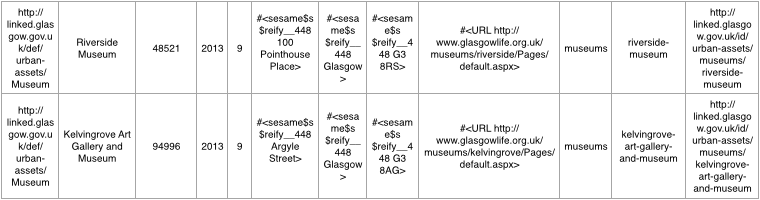
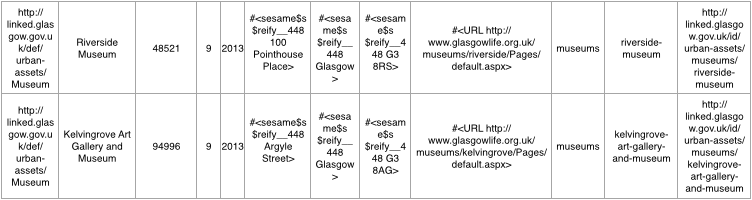
reorder the pipeline so swap 3 4 and fuse date-time are at the same moment -> updated each screenshot

diff --git a/_howto/921_pipeline.md b/_howto/921_pipeline.md
@@ -6,17 +6,10 @@ title: The Pipeline function
 # Pipeline
 
 ## Principle
-As its name indicates, the pipeline function, aims to link the data we are working on and the graph we want. Basically, pipeline modifies, for each row of the CSV file we are working on, the columns, so we can access or add the exact data we need. 
+As its name indicates, the pipeline function, aims to link the data we are working on and the graph we want. Basically, pipeline modifies, for each row of the CSV file we are working on, the columns, so we can access or add the exact data we need.
 
 Behind this there is the Grafter philosophy of transformations and preservation of source data.(FIXME: link_to Transformations and the art of preserving source data)
 
-### Clojure 
-
-#### -> macro
-[The "thread-first" macro](http://clojuredocs.org/clojure_core/clojure.core/-%3E) is often used in clojure and makes code more readable.
-
-#### let
-[The "let" special form](http://clojuredocs.org/clojure_core/clojure.core/let) makes the binding, and therefore the ability to resolve the binding, available only within the lexical context of the let (still the idea of transformations and preservation of source data).
 
 ### Data
 For each row the process will be the same so I will just show the two first lines:
@@ -31,11 +24,9 @@ The pipeline function is going to require some Grafter functions:
 - parse-csv: simply uses the [Clojure.java.io API reader function](http://clojure.github.io/clojure/clojure.java.io-api.html) to parse our csv file
 - drop-rows: drops the first n rows from the CSV
 - swap: swaps two columns
-- derive-column: adds a new column to the end of the row which is derived from
-already existing columns
-- mapc: takes an array of functions and maps each to the equivalent column
-position for every row
-- fuse: merges columns 
+- derive-column: adds a new column to the end of the row which is derived from already existing columns
+- mapc: takes an array of functions and maps each to the equivalent column position for every row
+- fuse: merges columns
 - _: identity
 - date-time: uses the [clj-time](https://github.com/clj-time/clj-time)'s date-time
 
@@ -55,41 +46,22 @@ And also every prefixies we have defined [at the last step](911_prefixies.html)
 First step is to parse the csv and drop the header:
 
 {% highlight clojure %}
-(defn pipeline [path-csv] 
+(defn pipeline [path-csv]
  (-> (parse-csv path-csv)
-     (drop-rows 1)))     
+     (drop-rows 1)))
 {% endhighlight %}
 
 ![Drop header Screenshot](/assets/921_pipeline_2.png)
-
-
-### Date
-
-Then we want to prepare the date, thus we would like to swap the month and the year:
-
-{% highlight clojure %}
-(defn pipeline [path-csv] 
- (-> (parse-csv path-csv)
-     (drop-rows 1)
-     (swap {3 4})))     
-{% endhighlight %}
-
-![Swap Screenshot](/assets/921_pipeline_3.png)
-
-and get
-
-![Swap Screenshot](/assets/921_pipeline_4.png)
 
 ### Type
 
 Next we would like to get the type: in this case we want to have: "museums". Instead of modifying source data we will just add a new column with the modified data. Basically we take the column 0 data, apply the function uriify-type, and add the result to a new column:
 
 {% highlight clojure %}
-(defn pipeline [path-csv] 
+(defn pipeline [path-csv]
  (-> (parse-csv path-csv)
      (drop-rows 1)
-     (swap {3 4})
-     (derive-column uriify-type 0)))     
+     (derive-column uriify-type 0)))
 {% endhighlight %}
 
 ![Swap Screenshot](/assets/921_pipeline_5.png)
@@ -105,15 +77,14 @@ cmd-line.prefixers=> (uriify-type "Museums")
 
 ### Name
 
-We are going to need to have the name in an nice format to make URI. Same way to do: 
+We are going to need to have the name in an nice format to make URI. Same way to do:
 
 {% highlight clojure %}
-(defn pipeline [path-csv] 
+(defn pipeline [path-csv]
  (-> (parse-csv path-csv)
      (drop-rows 1)
-     (swap {3 4})
      (derive-column uriify-type 0)
-     (derive-column slugify-facility 1)))     
+     (derive-column slugify-facility 1)))
 {% endhighlight %}
 
 ![Swap Screenshot](/assets/921_pipeline_7.png)
@@ -130,13 +101,12 @@ cmd-line.prefixers=> (slugify-facility "Riverside Museum")
 This one is a bit different: we will use mapc to apply a different function to each column:
 
 {% highlight clojure %}
-(defn pipeline [path-csv] 
+(defn pipeline [path-csv]
  (-> (parse-csv path-csv)
      (drop-rows 1)
-     (swap {3 4})
      (derive-column uriify-type 0)
      (derive-column slugify-facility 1)
-     (mapc [uriify-facility trim parse-attendance parse-year convert-month address-line city post-code url _ _])))     
+     (mapc [uriify-facility trim parse-attendance parse-year convert-month address-line city post-code url _ _])))
 {% endhighlight %}
 
 ![Swap Screenshot](/assets/921_pipeline_9.png)
@@ -171,14 +141,13 @@ We have changed a lot of things, but each transformation is easy to understand a
 ### Facilities uri
 
 {% highlight clojure %}
-(defn pipeline [path-csv] 
+(defn pipeline [path-csv]
  (-> (parse-csv path-csv)
      (drop-rows 1)
-     (swap {3 4})
      (derive-column uriify-type 0)
      (derive-column slugify-facility 1)
      (mapc [uriify-facility trim parse-attendance parse-year convert-month address-line city post-code url _ _])
-     (derive-column uriify-refFacility 9 10)))     
+     (derive-column uriify-refFacility 9 10)))
 {% endhighlight %}
 
 ![Swap Screenshot](/assets/921_pipeline_11.png)
@@ -193,15 +162,14 @@ cmd-line.prefixers=> (uriify-refFacility "museums" "riverside-museum")
 ### Postcode
 
 {% highlight clojure %}
-(defn pipeline [path-csv] 
+(defn pipeline [path-csv]
  (-> (parse-csv path-csv)
      (drop-rows 1)
-     (swap {3 4})
      (derive-column uriify-type 0)
      (derive-column slugify-facility 1)
      (mapc [uriify-facility trim parse-attendance parse-year convert-month address-line city post-code url _ _])
      (derive-column uriify-refFacility 9 10)
-     (derive-column uriify-pcode 7)))     
+     (derive-column uriify-pcode 7)))
 {% endhighlight %}
 
 ![Swap Screenshot](/assets/921_pipeline_13.png)
@@ -211,19 +179,38 @@ cmd-line.prefixers=> (uriify-refFacility "museums" "riverside-museum")
 
 ### Date time
 
-We are now going to create a nice date-time. date-time takes two arguments here, on column 3 and 4, fuse take the result of the function and put it in the first column concerned (here 3):
+We are now going to create a nice date-time.
+First the idea is to swap column 3 and column 4: by doing this we will have the year before the month. This is functionnal programming: order counts!
 
 {% highlight clojure %}
-(defn pipeline [path-csv] 
+(defn pipeline [path-csv]
  (-> (parse-csv path-csv)
      (drop-rows 1)
-     (swap {3 4})
      (derive-column uriify-type 0)
      (derive-column slugify-facility 1)
      (mapc [uriify-facility trim parse-attendance parse-year convert-month address-line city post-code url _ _])
      (derive-column uriify-refFacility 9 10)
      (derive-column uriify-pcode 7)
-     (fuse date-time 3 4)))     
+     (swap {3 4})))
+{% endhighlight %}
+
+![Swap Screenshot](/assets/921_pipeline_141.png)
+
+![Swap Screenshot](/assets/921_pipeline_142.png)
+
+Then we can apply date-time, the function takes two arguments, on column 3 and 4, fuse take the result of the function and put it in the first column concerned (here 3) and delete the second one:
+
+{% highlight clojure %}
+(defn pipeline [path-csv]
+ (-> (parse-csv path-csv)
+     (drop-rows 1)
+     (derive-column uriify-type 0)
+     (derive-column slugify-facility 1)
+     (mapc [uriify-facility trim parse-attendance parse-year convert-month address-line city post-code url _ _])
+     (derive-column uriify-refFacility 9 10)
+     (derive-column uriify-pcode 7)
+     (swap {3 4})
+     (fuse date-time 3 4)))
 {% endhighlight %}
 
 ![Swap Screenshot](/assets/921_pipeline_15.png)
@@ -240,17 +227,17 @@ Nothing really new from now, but still interesting!
 ### Monthly attendance
 
 {% highlight clojure %}
-(defn pipeline [path-csv] 
+(defn pipeline [path-csv]
  (-> (parse-csv path-csv)
      (drop-rows 1)
-     (swap {3 4})
      (derive-column uriify-type 0)
      (derive-column slugify-facility 1)
      (mapc [uriify-facility trim parse-attendance parse-year convert-month address-line city post-code url _ _])
      (derive-column uriify-refFacility 9 10)
      (derive-column uriify-pcode 7)
+     (swap {3 4})
      (fuse date-time 3 4)
-     (derive-column prefix-monthly-attendance 3)))     
+     (derive-column prefix-monthly-attendance 3)))
 {% endhighlight %}
 
 ![Swap Screenshot](/assets/921_pipeline_17.png)
@@ -263,19 +250,19 @@ Nothing really new from now, but still interesting!
 Actually we combine two steps here but it should be two really easy steps now:
 
 {% highlight clojure %}
-(defn pipeline [path-csv] 
+(defn pipeline [path-csv]
  (-> (parse-csv path-csv)
      (drop-rows 1)
-     (swap {3 4})
      (derive-column uriify-type 0)
      (derive-column slugify-facility 1)
      (mapc [uriify-facility trim parse-attendance parse-year convert-month address-line city post-code url _ _])
      (derive-column uriify-refFacility 9 10)
      (derive-column uriify-pcode 7)
+     (swap {3 4})
      (fuse date-time 3 4)
      (derive-column prefix-monthly-attendance 3)
      (derive-column slug-combine 8 9)
-     (fuse str 12 13)))     
+     (fuse str 12 13)))
 {% endhighlight %}
 
 ![Swap Screenshot](/assets/921_pipeline_19.png)
@@ -289,6 +276,6 @@ cmd-line.prefixers=> (str "http://linked.glasgow.gov.uk/data/glasgow-life-attend
 
 ![Swap Screenshot](/assets/921_pipeline_20.png)
 
-## Conclusion 
+## Conclusion
 
 We now have a much more useful set of data and we are going to be able to use it directly in the next part of this overview with [the creation of the graphs](931_graph.html)
